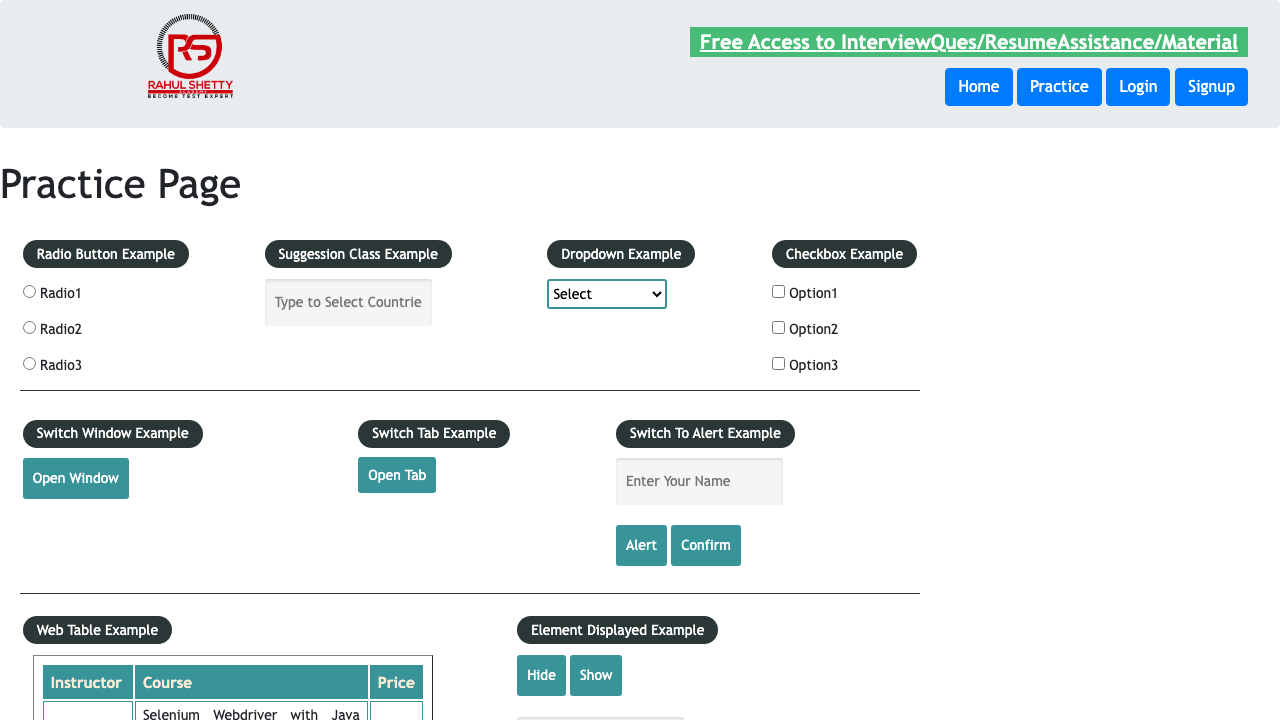
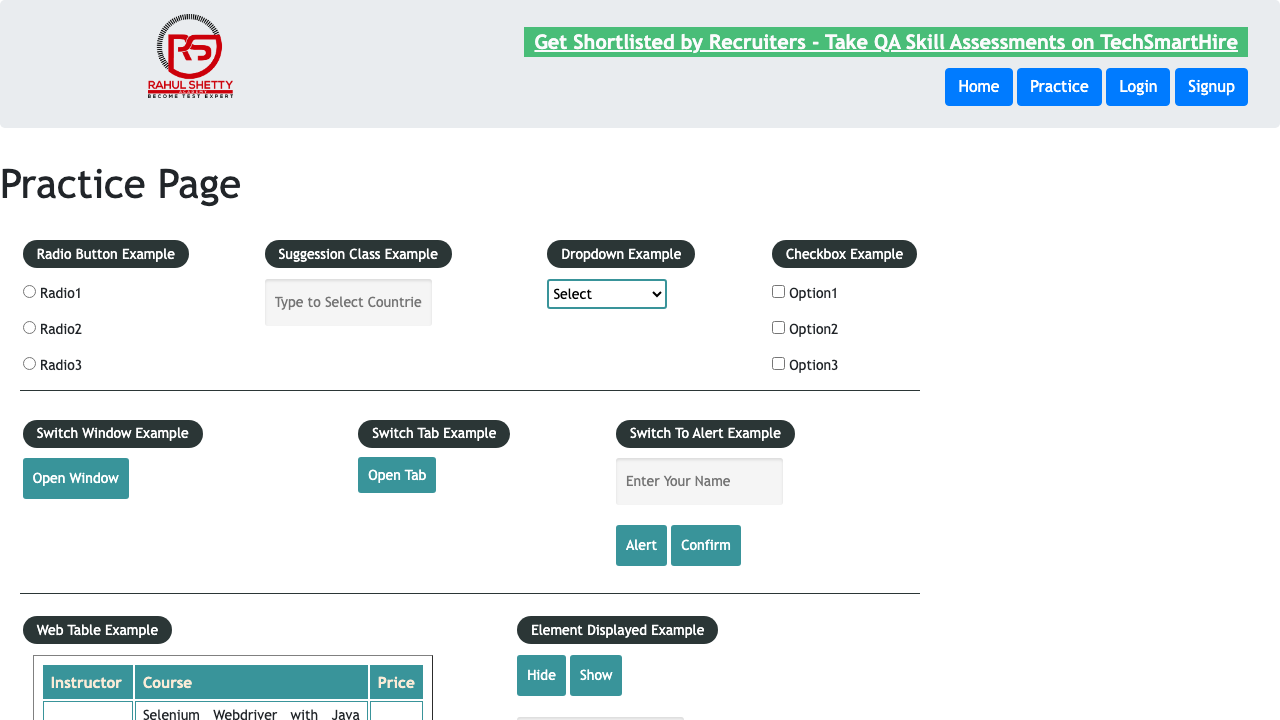
New changes added to fix CI failure

Changed region(s): [[0.4062, 0.0306, 0.9688, 0.0917]]

diff --git a/tests/TestingScreenshot.spec.js b/tests/TestingScreenshot.spec.js
@@ -24,5 +24,5 @@ test('Visual Test', async({browser}) =>{
         const page = await context.newPage();
 
         await page.goto("http://rahulshettyacademy.com/AutomationPractice/")
-        expect(await page.screenshot()).toMatchSnapshot('landing.png')
+        await expect(page).toHaveScreenshot('landing.png');
 })